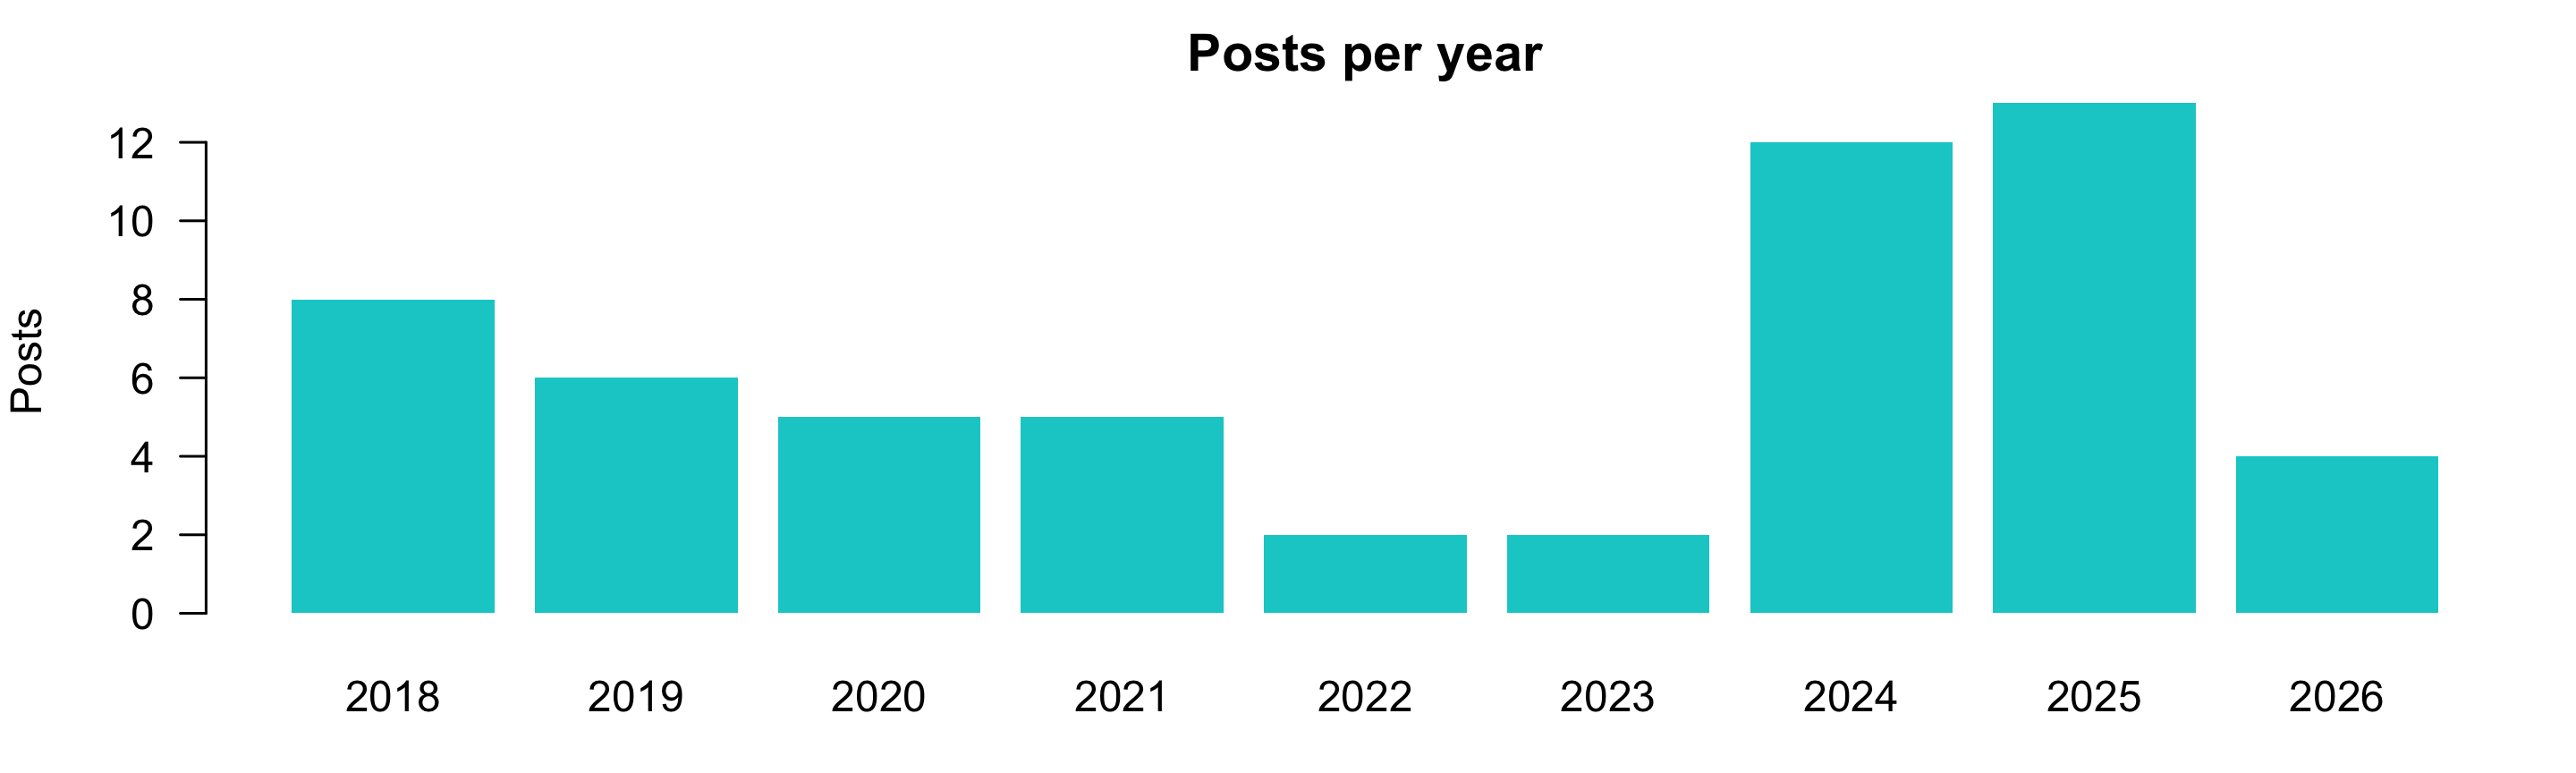
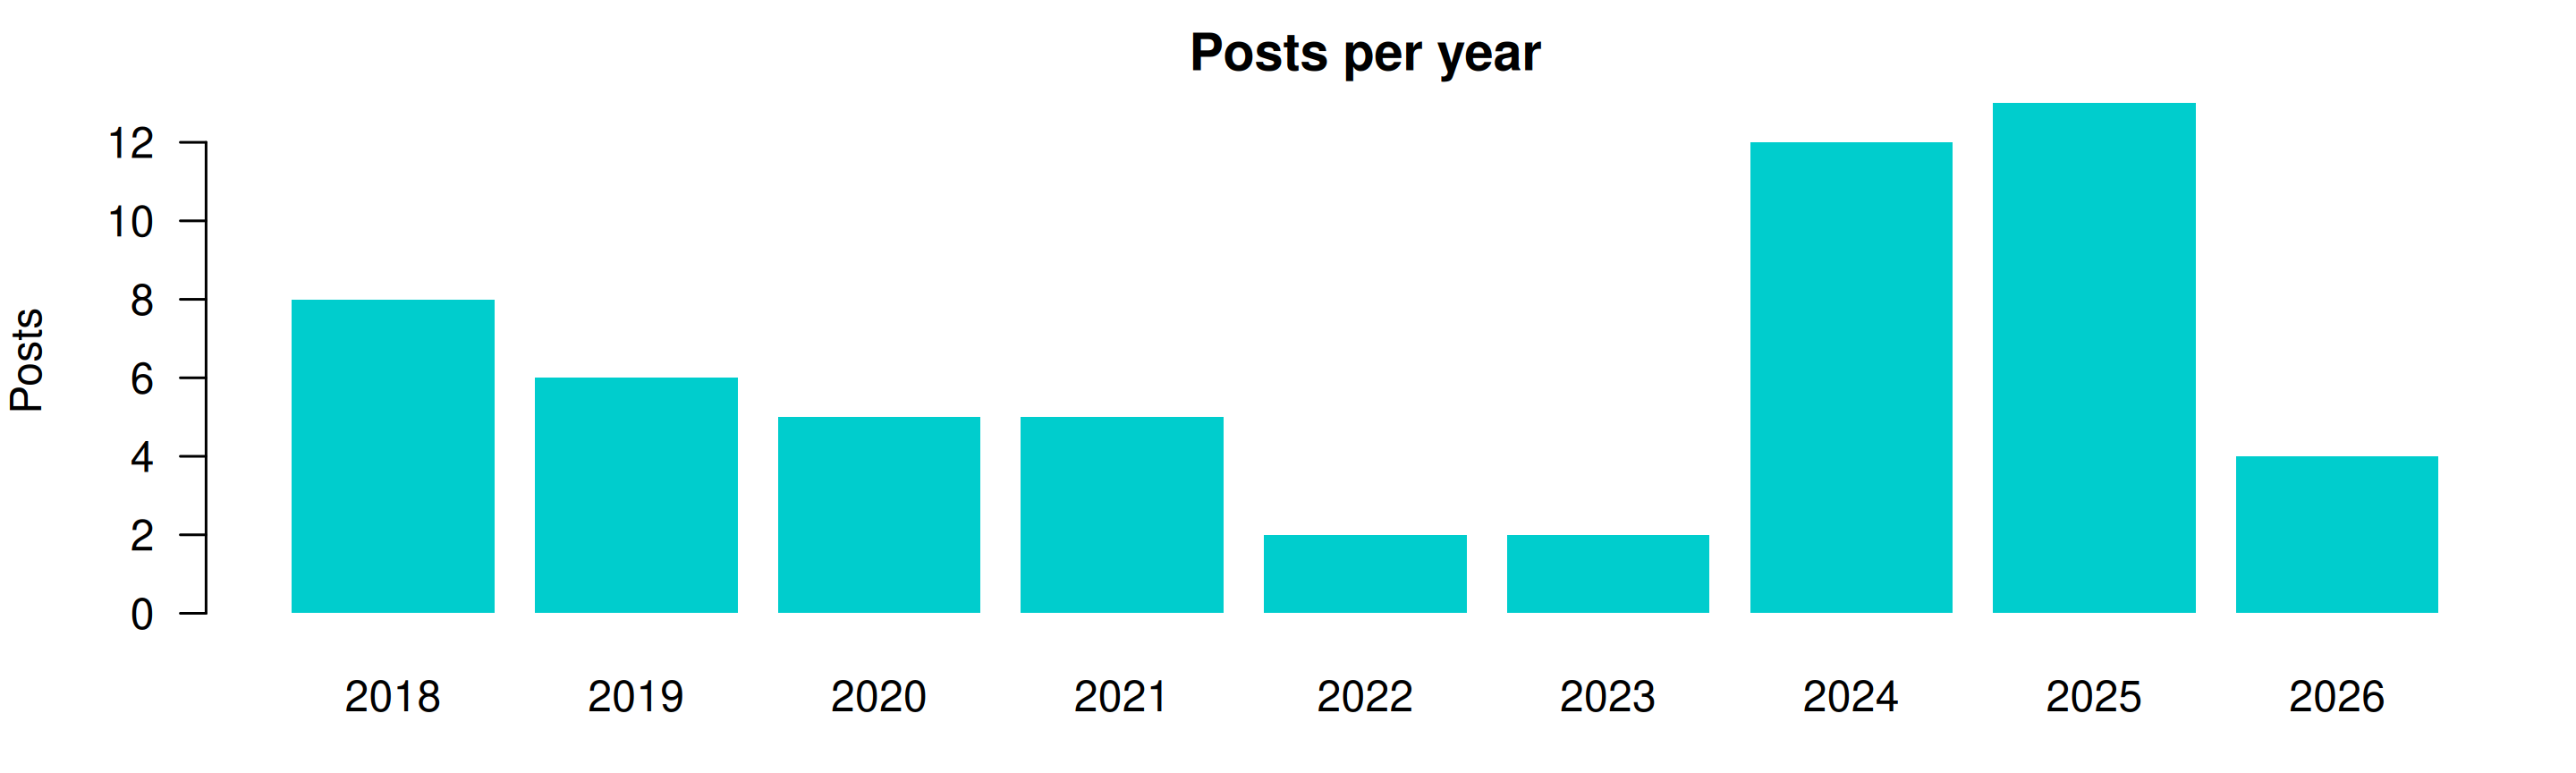
Re-build README.Rmd

diff --git a/README.md b/README.md
@@ -100,4 +100,4 @@ I’d love your feedback in the comments!
 Dray](https://www.rostrum.blog/2021/04/14/gha-readme/) and [Piping Hot
 Data](https://github.com/shannonpileggi/pipinghotdata_distill/blob/master/README.Rmd).*
 
-*Updated 2026-05-02 20:07 CEST*
+*Updated 2026-05-02 18:10 UTC*